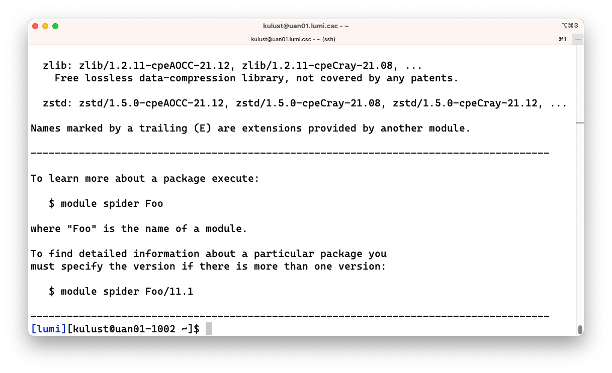
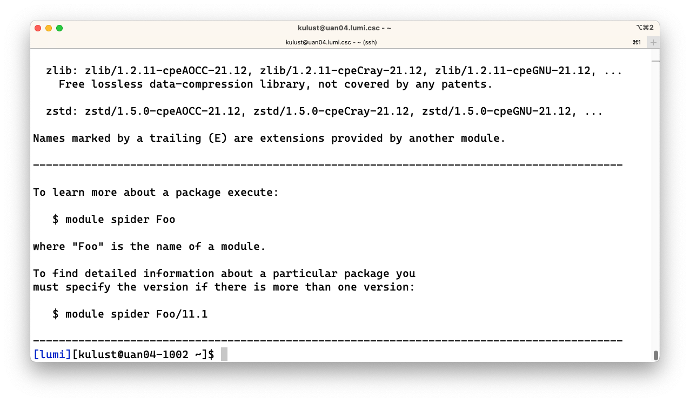
first batch of changes to the modules section.

diff --git a/docs/1day-20230509/03_Modules.md b/docs/1day-20230509/03_Modules.md
@@ -115,18 +115,19 @@ An easy example (though a tricky one as there are other mechanisms at play also)
 a different programming environment in the default login environment right after login:
 
 ```
-$ module load PrgEnv-gnu
+$ module load PrgEnv-aocc
 ```
 
 which results in
 
-![module load PrgEnv-gnu](../img/03_mod_ml_PrgEngGnu_1.png)
+<!-- Used window size 23x95 -->
+![module load PrgEnv-aocc](../img/03_mod_ml_PrgEnvAOCC_1.png)
 
 The first two lines of output are due to to other mechanisms that are at work here, 
 and the order of the lines may seem strange but that has to do with the way Lmod works
 internally. Each of the PrgEnv modules hard loads a compiler module which is why Lmod tells
-you that it is loading `gcc/11.2.0`. However, there is also another mechanism at work that
-causes `cce/10.0.2` and `PrgEnv-cray/8.3.3` to be unloaded, but more about that in the next
+you that it is loading `aocc/3.2.0`. However, there is also another mechanism at work that
+causes `cce/15.0.0` and `PrgEnv-cray/8.3.3` to be unloaded, but more about that in the next
 subsection (next slide).
 
 The important line for the hierarchy in the output are the lines starting with 
@@ -135,12 +136,12 @@ Remember that we said that each module has a corresponding module file. Just as 
 on a system, these are organised in a directory structure, and there is a path, in this
 case MODULEPATH, that determines where Lmod will look for module files. The hierarchy is
 implemented with a directory structure and the environment variable MODIULEPATH, and
-when the `cce/14.0.2` module was unloaded and `gcc/11.2.0` module was loaded, that 
+when the `cce/15.0.0` module was unloaded and `aocc/3.2.0` module was loaded, that 
 MODULEPATH was changed. As a result, the version of the cray-mpich module for the 
-`cce/14.0.2` compiler became unavailable, but one with the same module name for the
-`gcc/11.2.0` compiler became available and hence Lmod unloaded the version for the
-`cce/14.0.2` compiler as it is no longer available but loaded the matching one for
-the `gcc/11.0.2` compiler. 
+`cce/15.0.0` compiler became unavailable, but one with the same module name for the
+`aocc/3.2.0` compiler became available and hence Lmod unloaded the version for the
+`cce/15.0.0` compiler as it is no longer available but loaded the matching one for
+the `aocc/3.2.0` compiler. 
 
 
 ## About module names and families
